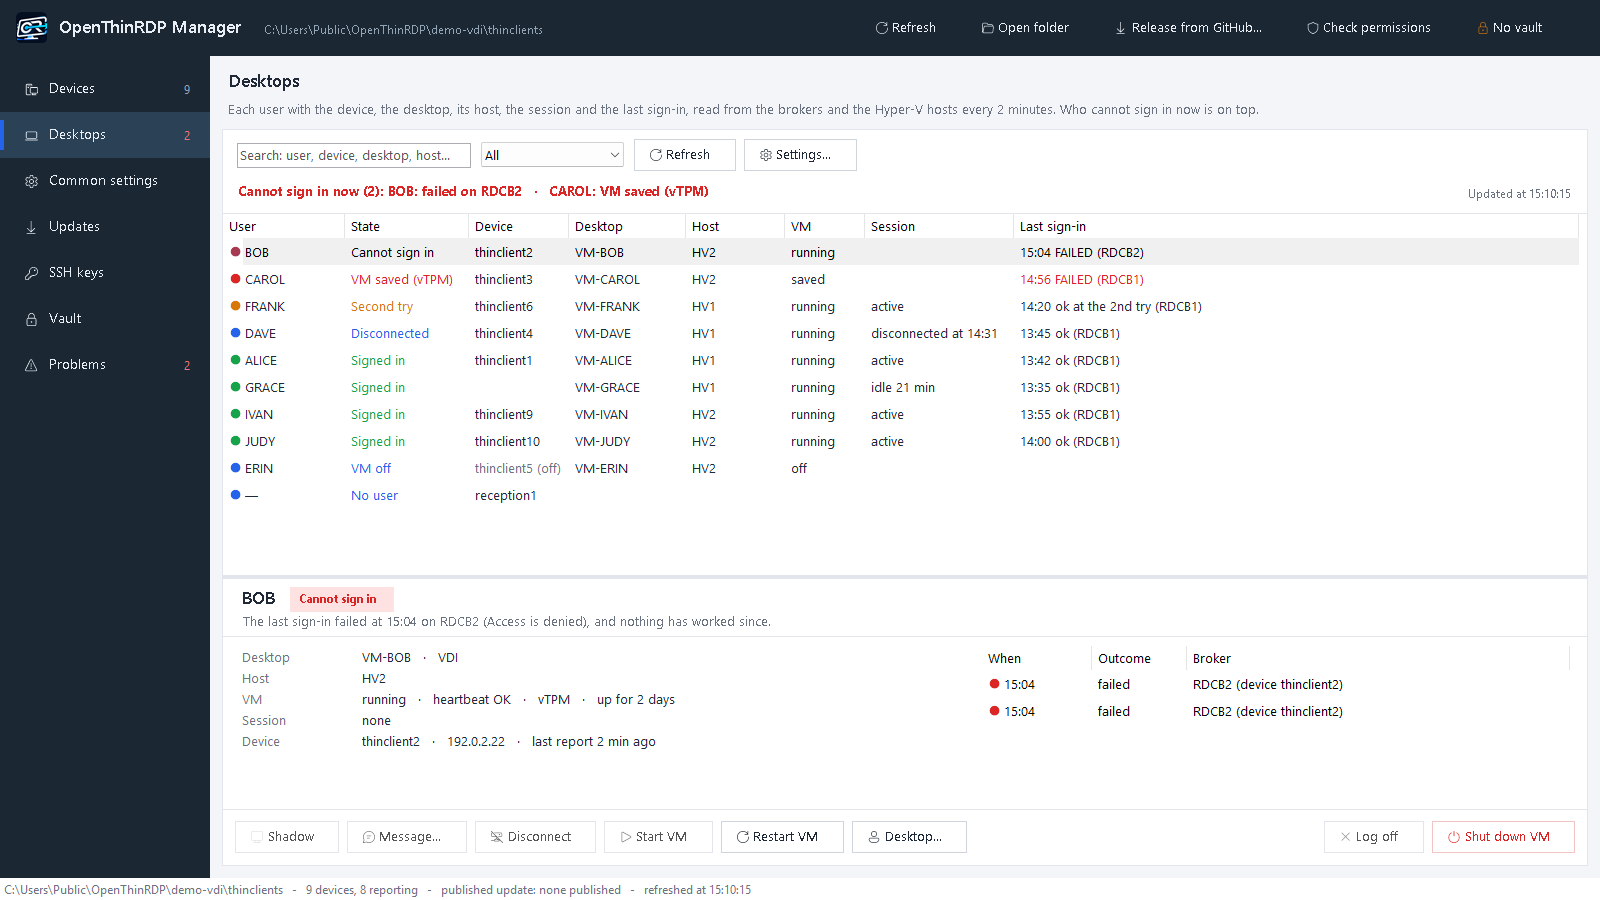
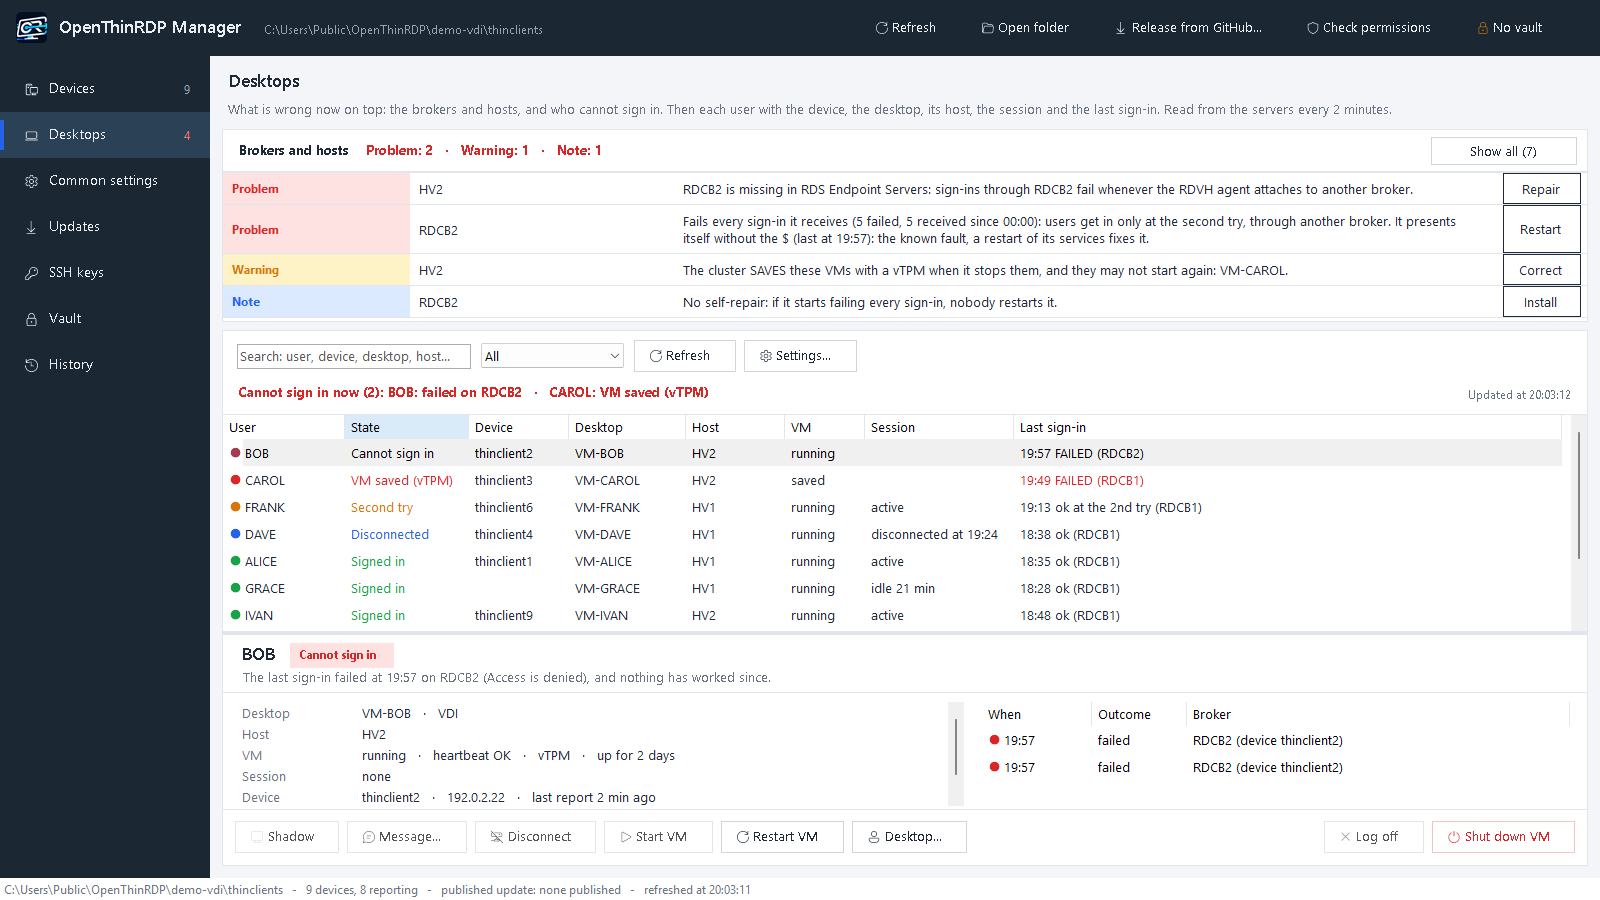
Manager: Desktops is the page of now, Problems becomes History
- Desktops: on top what is wrong now, Brokers and hosts with their Fix buttons and their
  right-click actions, then who cannot sign in, the users and the selected one. The
  problems only, the healthy lines with Show all; all well = one green line.
- Problems is now History (Storico): only the past problems of the devices from their
  event logs, nothing live. Its count in the menu went to Desktops.
- Texts that pointed to Problems > Brokers and hosts now point to Desktops; docs,
  README and CHANGELOG in line, the screenshot of Desktops from the demo data.

Refs #74

diff --git a/docs/manager.md b/docs/manager.md
@@ -14,7 +14,7 @@ folder too, with a backup and a line in the change log.
 - [Settings for all devices or one](#settings-for-all-devices-or-one)
 - [Updates: a few devices first, then all, and back when something breaks](#updates-a-few-devices-first-then-all-and-back-when-something-breaks)
 - [Remote screen](#remote-screen)
-- [Problems across the fleet](#problems-across-the-fleet)
+- [History: problems across the fleet](#history-problems-across-the-fleet)
 - [Desktops, brokers and Hyper-V hosts](#desktops-brokers-and-hyper-v-hosts)
 - [Vault, keys and the site key](#vault-keys-and-the-site-key)
 - [Logo, background, SSH keys, permissions](#logo-background-ssh-keys-permissions)
@@ -107,7 +107,7 @@ applied when the session is over.
    the latest release, checks its project signature and hash, and asks: *all devices* or ***pilot devices only***.
    With pilot only, all the other devices are first kept on the version they have (`UPDATE_TO=<that version>` in
    `common.conf`), and only then the new version goes into the folder.
-3. **Watch the pilots** for a few days: their **Summary** and **Events**, and the **Problems** page.
+3. **Watch the pilots** for a few days: their **Summary** and **Events**, and the **History** page.
 
 ### Release it to the whole fleet
 
@@ -149,9 +149,9 @@ the network, and nothing is installed on your PC. The device shows *Remote assis
 records it in its events; it ends when you close the small window, or by itself after 2 hours. `REMOTE_SCREEN=off`
 turns it off. How it works: [management.md](management.md#remote-screen).
 
-## Problems across the fleet
+## History: problems across the fleet
 
-The **Problems** page reads the event logs of every device together, for today, 24 hours, 7 or 30 days, and groups
+The **History** page reads the event logs of every device together, for today, 24 hours, 7 or 30 days, and groups
 what went wrong: failed sign-ins (by broker), desktops that did not start, sessions dropped (by cause), sessions
 taken over, UDP blocked, failed updates, rejected settings. Each line says how many times, on which devices, for
 which users, first and last time. A line is orange when 3 or more devices had the same problem: that points at a
@@ -166,7 +166,7 @@ next to the devices, for a deployment of Remote Desktop Services with Hyper-V (p
 there are some).
 
 <p align="center">
-<img src="screenshots/manager-desktops.png" alt="Desktops page: who cannot sign in on top, each user with the device, the desktop, its host, the VM, the session and the last sign-in; the selected user with its actions" width="100%">
+<img src="screenshots/manager-desktops.png" alt="Desktops page: on top the problems of brokers and hosts with their Fix buttons and who cannot sign in, then each user with the device, the desktop, its host, the VM, the session and the last sign-in; the selected user with its actions" width="100%">
 </p>
 
 - **One row per user and device**: the device, the personal desktop (VM), its Hyper-V host, the state of the VM
@@ -186,13 +186,9 @@ there are some).
 
 ### Brokers and hosts
 
-The **Problems** page starts with the brokers, the shared name the devices use, and the Hyper-V hosts: one line each,
-green when healthy, otherwise one sentence and, when a safe fix exists, its button. A right click on a broker or a host
-gives all its actions.
-
-<p align="center">
-<img src="screenshots/manager-brokers.png" alt="Problems page, Brokers and hosts: a host without the permission of a broker, a broker that fails every sign-in, VMs with a vTPM that the cluster would save, a broker without self-repair, each with its Fix button" width="100%">
-</p>
+On top of the **Desktops** page, the brokers, the shared name the devices use, and the Hyper-V hosts: one line per
+problem, in one sentence and, when a safe fix exists, with its button; **Show all** adds the healthy ones. When all is
+well it is one green line, *Brokers and hosts: all OK*. A right click on a broker or a host gives all its actions.
 
 | It checks | Fix |
 |---|---|
@@ -235,7 +231,7 @@ gives all its actions.
 A broker can start failing every sign-in after it leaves and joins the farm again: it presents itself without the `$`,
 falls back to NTLM, and every request ends with *access denied* (event 804, `0x80070005`) until its services start
 again. `management/windows/rds/Broker-SelfRepair.ps1` does that by itself, as a scheduled task started by the event
-of that fault, at most once every 15 minutes. **Install** in Brokers and hosts installs or updates it; by hand:
+of that fault, at most once every 15 minutes. **Install** in Brokers and hosts (Desktops page) installs or updates it; by hand:
 `Install-BrokerSelfRepair.ps1 -Broker rdcb1.example.com, rdcb2.example.com` (`-Remove` takes it away). A broker that
 already has a self-repair task of its own is left as it is.
 

diff --git a/CHANGELOG.md b/CHANGELOG.md
@@ -10,7 +10,7 @@ Downloads and signed update packages: [releases](https://github.com/OpenThinRdp/
   - A **Desktops** page: each user with the device, the personal desktop, its Hyper-V host, the state of the VM, the
     Windows session (active, idle, disconnected) and the last sign-in (which broker, ok or failed, second try). Who
     cannot sign in now is on top. Read in the background every 2 minutes.
-  - **Brokers and hosts** at the top of Problems: sign-ins ok and failed per broker, a broker that fails every request
+  - **Brokers and hosts** at the top of the same page: sign-ins ok and failed per broker, a broker that fails every request
     (with its known signature, event 4648 of `tssdis.exe` without the `$`), stuck services, the self-repair task, the
     shared name answering on every address; on each host the brokers in the three local groups (through groups too),
     a stuck RDVH agent or vmms, the broker the agent is attached to, VMs with a vTPM the cluster would save. Each
@@ -20,6 +20,8 @@ Downloads and signed update packages: [releases](https://github.com/OpenThinRdp/
     permissions, install the broker self-repair (`management/windows/rds`), unblock the RDVH agent; start, restart
     and shut down a VM (never saved); log off, disconnect, message, shadow; assign a personal desktop.
   - No rights on the servers: one sentence, and the rest of the manager as before.
+  - The **Problems** page is now **History**: the past problems of the devices, from their event logs; what is wrong
+    now is on Desktops.
   - Tests of the manager in Windows PowerShell 5.1 in CI, from recorded data (`tests/windows`).
 - **Raspberry Pi 4 (arm64), experimental** ([#61](https://github.com/OpenThinRdp/openthinrdp/issues/61)).
   - `image/build-rpi.sh` makes an SD card image: Debian 13 arm64 with Debian's kernel and `raspi-firmware`, the same

diff --git a/docs/management.md b/docs/management.md
@@ -97,7 +97,7 @@ Before saving `common.conf` it lists the devices that would reject it.
 
 The window has six pages on the left: **Devices** (the list, and the selected device with its settings, a summary,
 its events and its full report), **Common settings**, **Updates** (see [Pilot devices and going back](#pilot-devices-and-going-back)
-and [The manager updates itself](#the-manager-updates-itself)), **SSH keys**, **Vault** and **Problems**; the actions on the
+and [The manager updates itself](#the-manager-updates-itself)), **SSH keys**, **Vault** and **History**; the actions on the
 folder (refresh, open, release from GitHub, check permissions) and the state of the vault are in the bar at the top. In a settings list each row shows
 the value in use on the device, where it comes from (*the device itself*, *common settings*, *this device* for an
 exception) and *on its way* when a saved value has not reached the device yet (it reads the folder every 5 minutes;
@@ -181,7 +181,7 @@ minutes. The status file says where each picture comes from: `BRANDING=logo=comm
 
 ## Problems across the fleet
 
-Every device sends its event log to `status\<hostname>-events.log`. The **Problems** tab of the Windows manager
+Every device sends its event log to `status\<hostname>-events.log`. The **History** page of the Windows manager
 (since 0.1.7) reads them all together for a period (today, 24 hours, 7 or 30 days) and groups what went wrong:
 sign-in attempts that failed (by the broker really contacted), desktops that did not start, sign-ins refused, sessions dropped (by
 cause: network lost, FreeRDP stuck, error code), sessions taken over, UDP blocked, failed updates, rejected settings.

diff --git a/README.md b/README.md
@@ -189,7 +189,7 @@ on the shared folder the devices report to. No server, no agent, no database: wh
   user with the device, the desktop, its host, the session and the last sign-in; brokers and hosts checked (a broker
   that fails every request, a missing permission, a stuck RDVH agent), each problem with its fix; actions on VMs and
   sessions, always confirmed and logged.
-- **Problems across the fleet** grouped from every event log; a **vault** for the SSH key and the signing key; your
+- **The history of the fleet**, problems grouped from every event log; a **vault** for the SSH key and the signing key; your
   fleet on **its own signing key**; logo and background; and the manager **updates itself** from the signed releases.
 
 **Everything it does, page by page, with the steps for a pilot group and for going back: [docs/manager.md](docs/manager.md).**

diff --git a/README.it.md b/README.it.md
@@ -199,7 +199,7 @@ database: quello che vedete sono i file della cartella.
   utente con la postazione, il desktop, il suo host, la sessione e l'ultimo accesso; broker e host controllati (un
   broker che fa fallire ogni richiesta, un permesso mancante, un agente RDVH bloccato), ogni problema con la sua
   correzione; azioni su VM e sessioni, sempre confermate e registrate.
-- **Problemi di tutto il parco** raggruppati da tutti i registri; una **cassaforte** per la chiave SSH e la chiave di
+- **Lo storico del parco**, i problemi raggruppati da tutti i registri; una **cassaforte** per la chiave SSH e la chiave di
   firma; il parco sulla **sua chiave di firma**; logo e sfondo; e il gestore **si aggiorna da solo** dalle release
   firmate.
 
